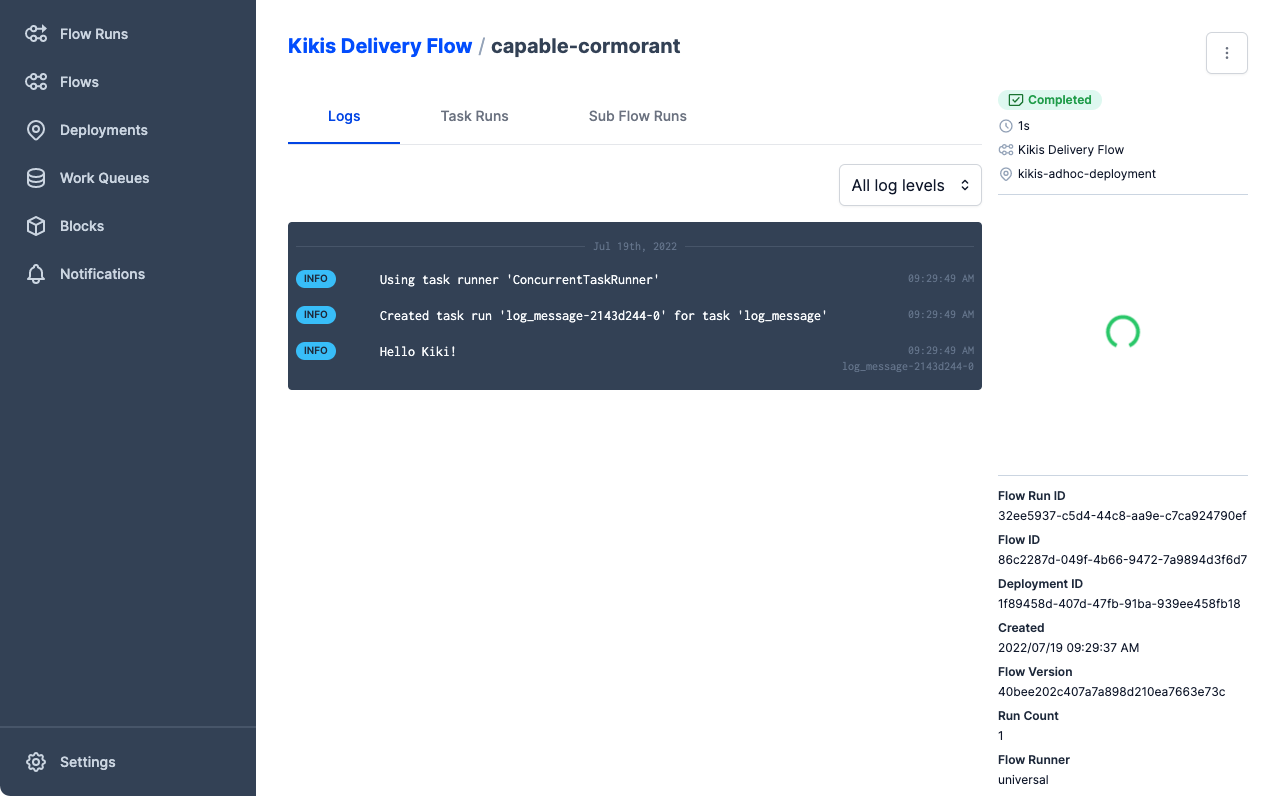
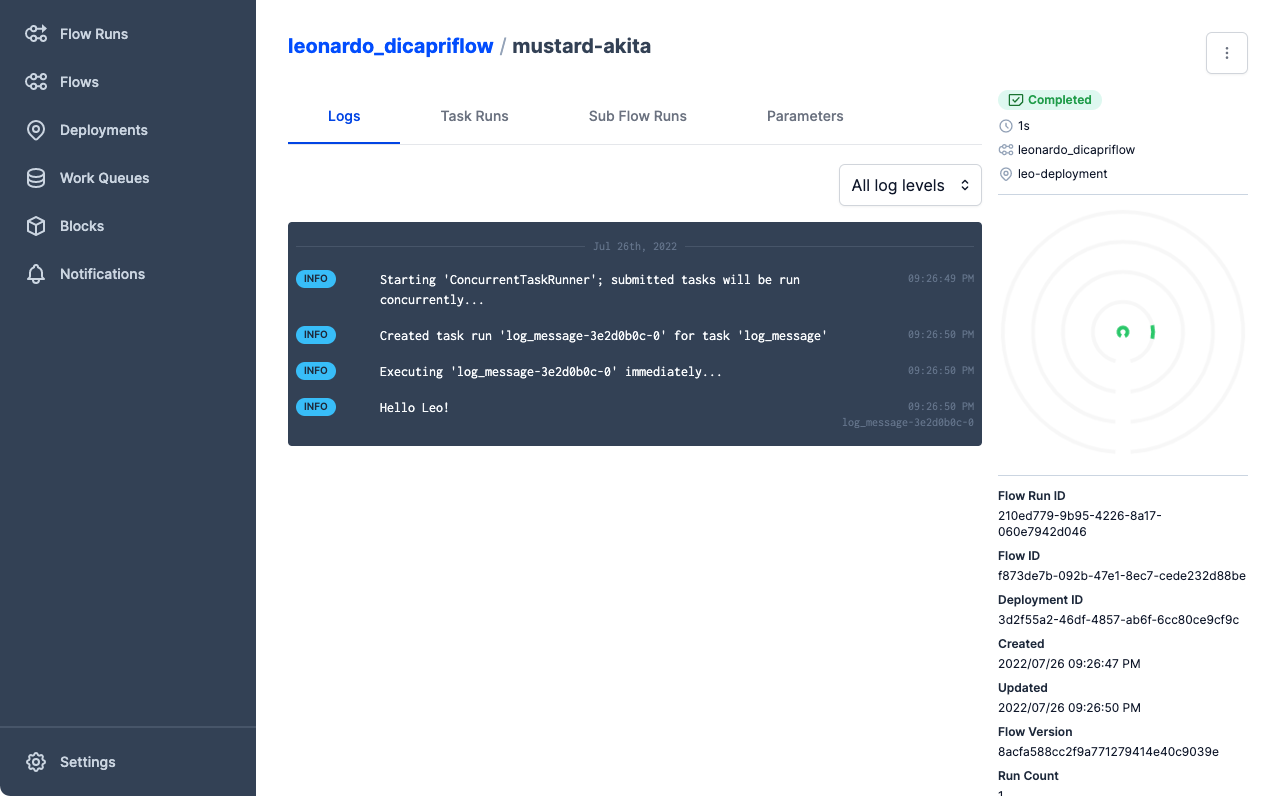
Update deployments tutorial - final bits

diff --git a/docs/tutorials/deployments.md b/docs/tutorials/deployments.md
@@ -383,12 +383,16 @@ If you switch over to the terminal session where your agent is running, you'll s
 
 <div class='terminal'>
 ```bash
-09:29:49.422 | INFO    | Flow run 'capable-cormorant' - Using task runner 'ConcurrentTaskRunner'
-09:29:49.531 | INFO    | Flow run 'capable-cormorant' - Created task run 'log_message-2143d244-0' for task 'log_message'
-09:29:49.559 | INFO    | Task run 'log_message-2143d244-0' - Hello Kiki!
-09:29:49.938 | INFO    | Task run 'log_message-2143d244-0' - Finished in state Completed()
-09:29:50.315 | INFO    | Flow run 'capable-cormorant' - Finished in state Completed('All states completed.')
-09:29:50.754 | INFO    | prefect.flow_runner.subprocess - Subprocess for flow run '32ee5937-c5d4-44c8-aa9e-c7ca924790ef' exited cleanly.
+21:26:47.911 | INFO    | prefect.agent - Submitting flow run '210ed779-9b95-4226-8a17-060e7942d046'
+21:26:48.010 | INFO    | prefect.infrastructure.process - Opening process 'mustard-akita'...
+21:26:48.031 | INFO    | prefect.agent - Completed submission of flow run '210ed779-9b95-4226-8a17-060e7942d046'
+21:26:49.973 | INFO    | Flow run 'mustard-akita' - Starting 'ConcurrentTaskRunner'; submitted tasks will be run concurrently...
+21:26:50.127 | INFO    | Flow run 'mustard-akita' - Created task run 'log_message-3e2d0b0c-0' for task 'log_message'
+21:26:50.128 | INFO    | Flow run 'mustard-akita' - Executing 'log_message-3e2d0b0c-0' immediately...
+21:26:50.157 | INFO    | Task run 'log_message-3e2d0b0c-0' - Hello Leo!
+21:26:50.186 | INFO    | Task run 'log_message-3e2d0b0c-0' - Finished in state Completed()
+21:26:50.223 | INFO    | Flow run 'mustard-akita' - Finished in state Completed('All states completed.')
+21:26:50.495 | INFO    | prefect.infrastructure.process - Process 'mustard-akita' exited cleanly.
 ```
 </div>
 
@@ -404,70 +408,10 @@ Click the flow run to see details. In the flow run logs, you can see that the fl
 
 So far you've seen a simple example of a single deployment for a single flow. But a common and useful pattern is to create multiple deployments for a flow. By using tags, parameters, and schedules effectively, you can have a single flow definition that serves multiple purposes or can be configured to run in different environments.
 
-For example, you can extend the earlier example by creating a second deployment for `leo_flow.py` that logs different greetings by passing different parameters.
-
-```python
-from prefect.deployments import Deployment
-from prefect.deployments import FlowScript
-
-Deployment(
-    name="leonardo-deployment",
-    flow=FlowScript(path="./leo_flow.py", name="leonardo_dicapriflow"),
-    tags=['tutorial','test'],
-    parameters={'name':'Leo'}
-)
-
-Deployment(
-    name="marvin-deployment",
-    flow=FlowScript(path="./leo_flow.py", name="leonardo_dicapriflow"),
-    tags=['tutorial','dev'],
-    parameters={'name':'Marvin'}
-)
-```
-
-If you run `prefect deployment create leo_deployment.py` again with this code, it won't change `leonardo_deployment`, but it will create a new `marvin-deployment`.
-
-- Running `leonardo_deployment` logs the message "Hello Leo!".
-- Running `marvin-deployment` logs the message "Hello Marvin!".
-
-Both deployments can use the `tutorial_queue` work queue because they have "tutorial" tags. But if you created a new work queue that served deployments with, say, a "dev" tag, only `marvin-deployment` would be served by that queue and its agents.
-
 ## Cleaning up
 
 You're welcome to leave the work queue and agent running to experiment and to handle local development.
 
 To terminate the agent, simply go to the terminal session where it's running and end the process with either `Ctrl+C` or by terminating the terminal session.
 
-To pause a work queue, run the Prefect CLI command `prefect work-queue pause`, passing the work queue ID.
-
-To delete a work queue, run the command `prefect work-queue delete`, passing the work queue ID.
-
-<div class='terminal'>
-```
-$ prefect work-queue delete '3461754d-e411-4155-9bc7-a0145b6974a0'
-Deleted work queue 3461754d-e411-4155-9bc7-a0145b6974a0
-```
-</div>
-
-To terminate the Prefect API server, go to the terminal session where it's running and end the process with either `Ctrl+C` or by terminating the terminal session.
-
-<!-- The REST API
-
-We can additionally use the REST API directly; to facilitate this, we will demonstrate how this works with the convenient Python Orion Client:
-
-```python
-from prefect.client import get_client
-
-async with get_client() as client:
-    deployment = await client.read_deployment_by_name("Addition Machine/my-first-deployment")
-    flow_run = await client.create_flow_run_from_deployment(deployment)
-```
-
-Note that the return values of these methods are full model objects. -->
-
-!!! tip "Additional Reading"
-    To learn more about the concepts presented here, check out the following resources:
-
-    - [Deployment Specs](/api-ref/prefect/deployments/)
-    - [Deployments](/concepts/deployments/)
-    - [Schedules](/concepts/schedules/)
+You can pause or delete a work queue on the Prefect UI **Work Queues** page.